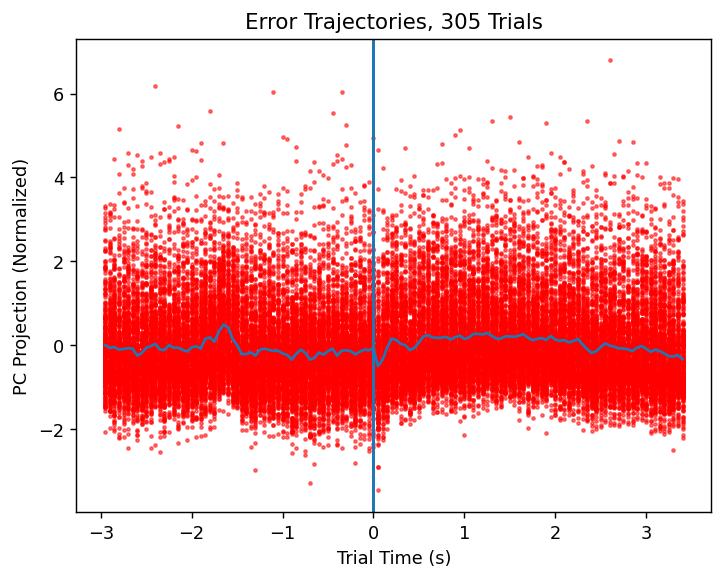
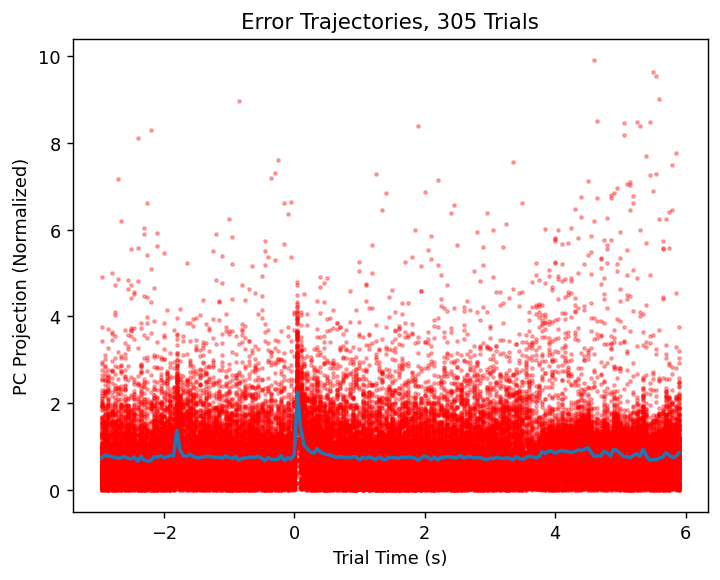
update 11/19/21, wtf?

diff --git a/spike_analysis/main.py b/spike_analysis/main.py
@@ -7,8 +7,139 @@ import numpy as np
 import scripts
 import utils
 from sklearn.decomposition import PCA
+import tqdm
 
 from scripts import avg_pert
+
+
+def plot_pc_projection(ts, projs, idx_pc, trials=True, mean=True, std_err=True, remove_outliers=True, append_title=''):
+    """
+    Plot Principal Component Projections.
+    :param ts:
+    :param projs:
+    :param idx_pc:
+    :param trials:
+    :param mean:
+    :param std_err:
+    :param remove_outliers:
+    :return:
+    """
+    num_bins, num_trials, num_pcs = projs.shape
+    print(num_bins, num_trials, num_pcs)
+    mu = projs.mean(axis=1)[:, idx_pc]
+    sigma = projs.std(axis=1)[:, idx_pc] / np.sqrt(num_trials)
+
+    plt.figure('pc ' + str(idx_pc) + append_title)
+    plt.clf()
+    if trials:
+        for j in range(num_trials):
+            plt.scatter(ts, projs[:, j, idx_pc], c='r', marker='.', alpha=.25, s=10)
+    if mean:
+        plt.plot(ts, projs.mean(axis=1)[:, idx_pc], c='b', linewidth=2)
+
+    if std_err:
+        plt.fill_between(ts, mu - sigma, mu + sigma, color='b', alpha=.3)
+
+    plt.xlabel('Time (s)')
+    plt.ylabel("PC Projection (Hz)")
+    plt.show()
+
+def plot_pc_weights(components, idx_pc, left_right_split=None):
+    try:
+        num_neurons, num_pcs = components.shape
+    except ValueError:
+        num_neurons = len(components)
+        num_pcs = 1
+        idx_pc = 0
+        components = np.expand_dims(components, axis=1)
+
+    plt.figure("pc weights {0}".format(idx_pc))
+    plt.clf()
+
+    plt.plot(np.arange(num_neurons), components[:,idx_pc], c='k')
+    plt.scatter(np.arange(num_neurons), components[:, idx_pc], c='r',marker='.')
+    plt.xlabel("Neuron Number")
+    plt.ylabel("Projection Weight (Unitless)")
+    plt.title("PC {0} Projection Weights".format(idx_pc))
+
+    if left_right_split:
+        plt.axvline(left_right_split, c='b')
+
+    plt.show()
+
+def filter_nan(x, fill=0):
+    """
+    Filter nan values to have fill instead
+    :param x:
+    :param fill:
+    :return:
+    """
+    y = x.copy()
+    y[np.isnan(y)] = fill
+    return y
+
+def nonnegative_pca(X, num_steps=1000):
+    """
+    Nonnegative PCA via http://web.stanford.edu/~montanar/RESEARCH/FILEPAP/nmf.pdf
+
+    :param X: data matrix shape n x p
+    :param num_steps: number of algorithm iterations
+    :return: right,left pc vectors v, u respectively such that all are nonnegative
+    """
+    def l0_norm(x):
+        return np.count_nonzero(x)
+
+    def l2_norm(x):
+        return np.sqrt(x.T @ x)
+
+    def f(x):
+        xp = pos(x)
+        return filter_nan(np.sqrt(n) * xp / l2_norm(xp))
+
+
+    def g(x):
+        if np.isclose(l2_norm(x), 0):
+            return 0 * x
+        else:
+            return filter_nan(np.sqrt(n) * x / l2_norm(x))
+
+    def pos(x):
+        y = x.copy()
+        y[y < 0] = 0
+        return y
+
+    n,p = X.shape
+    t = 0 # step
+
+    u_tm1 = np.zeros((n,))
+    u_t = np.zeros((n,))
+    v_t = np.random.normal(size=(p,))
+    v_t /= np.linalg.norm(v_t)
+    v_tp1 = np.zeros((p,))
+
+    us = [u_t]
+    vs = [v_t]
+
+    uhats = []
+    vhats = [pos(v_t) / l2_norm(pos(v_t))]
+
+    for t in tqdm.tqdm(range(num_steps)):
+        b_t = l0_norm(pos(v_t)) / (np.sqrt(n) * l2_norm(pos(v_t)))
+        u_t = X @ f(v_t) - b_t * g(u_tm1)
+        d_t = np.sqrt(n) / l2_norm(u_t)
+
+        v_tp1 = X.T @ g(u_t) - d_t * f(v_t)
+
+        us.append(u_t)
+        vs.append(v_t)
+        uhats.append(u_t / l2_norm(u_t))
+        vhats.append(pos(v_t) / l2_norm(pos(v_t)))
+
+        u_tm1 = u_t.copy()
+        v_t = v_tp1
+
+    return uhats, vhats
+
 
 if __name__ == '__main__':
     # region load data and session select
@@ -26,6 +157,7 @@ if __name__ == '__main__':
     stims = session.get_task_stimulation()
     dirs = session.get_task_lick_directions()
     cue_times = session.get_task_cue_times()
+    sample_times = session.get_task_sample_times()
     ts = session.get_ts()
     if stationary:
         ts = ts[1:]
@@ -35,6 +167,7 @@ if __name__ == '__main__':
     # region non-perturbation trials, error estimation
     trial_mask_left_lick_no_stim = [idx for idx in range(session.get_num_trials())
                                     if (stims[idx, 0] == 0) and (dirs[idx] == 'l')]
+
 
     frs_left = session.get_firing_rates(region='left ALM')[:, trial_mask_left_lick_no_stim, :]
     frs_right = session.get_firing_rates(region='right ALM')[:, trial_mask_left_lick_no_stim, :]
@@ -51,7 +184,12 @@ if __name__ == '__main__':
     frs_right_flat -= np.expand_dims(frs_right_flat.mean(axis=1),axis=1)
 
     A = np.hstack((frs_left_flat, -frs_right_flat))
-    pca = PCA(n_components=num_pcs, svd_solver="full")
+
+    if normalize:
+        A = utils.z_score(A, axis=0)
+
+
+    pca = PCA(svd_solver="full")
     pca.fit(A)
     err_pc = np.zeros((num_bins * num_trials, num_pcs))
     components = np.zeros((A.shape[1], num_pcs))
@@ -67,17 +205,21 @@ if __name__ == '__main__':
         err_pc_r = np.cumsum(err_pc_r, axis=0)
 
     err_pc_r -= err_pc_r.mean(axis=0)
+
+
+    idx_pc = 0
+
     std = err_pc_r.std(axis=1)
-    for i in range(num_pcs):
-        plt.figure('pc {0}'.format(i))
-        plt.plot(ts, err_pc_r.mean(axis=1)[:,i]/std[:,i])
-        for j in range(num_trials):
-            plt.scatter(ts, err_pc_r[:, j, i]/std[:,i], c='r', alpha=.5, s=3)
-            plt.axvline()
-        plt.xlabel("Trial Time (s)")
-        plt.ylabel("PC Projection (Normalized)")
-        plt.title('Error Trajectories, {0} Trials'.format(num_trials))
-        plt.savefig('pc {0}'.format(i), bbox_inches='tight', dpi=128)
+    # for i in range(num_pcs):
+    #     plt.figure('pc {0}'.format(i))
+    #     plt.clf()
+    #     plt.plot(ts, np.abs(err_pc_r).mean(axis=1)[:,i]/std[:,i], linewidth=2)
+    #     for j in range(num_trials):
+    #         plt.scatter(ts, np.abs(err_pc_r)[:, j, i]/std[:,i], c='r', alpha=.3, s=3)
+    #     plt.xlabel("Trial Time (s)")
+    #     plt.ylabel("PC Projection (Normalized)")
+    #     plt.title('Error Trajectories, {0} Trials'.format(num_trials))
+    #     plt.savefig('pc {0}'.format(i), bbox_inches='tight', dpi=128)
     # endregion
 
     # region perturbation trials, error estimation
@@ -104,6 +246,8 @@ if __name__ == '__main__':
 
     A_p = np.hstack((frs_left_flat_p, -frs_right_flat_p))
 
+    if normalize:
+        A_p = utils.z_score(A_p, axis=0)
     err_pc_p = np.zeros((num_bins * num_trials_pert, num_pcs))
     for j in range(num_pcs):
         err_pc_p[:, j] = np.tensordot(A_p, components[:,j], axes=1)
@@ -113,22 +257,108 @@ if __name__ == '__main__':
 
     err_pc_r_p -= np.expand_dims(err_pc_r.mean(axis=1),axis=1)
     err_pc_r_p -= err_pc_r_p.mean(axis=0)
-    std_p = err_pc_r_p.std(axis=1)
-    for i in range(num_pcs):
-        plt.figure('pcp {0}'.format(i))
-        plt.plot(ts, err_pc_r_p.mean(axis=1)[:,i]/std_p[:,i])
-        for j in range(num_trials_pert):
-            plt.scatter(ts, err_pc_r_p[:, j, i]/std_p[:,i], c='r', alpha=.5, s=3)
-            plt.axvline(t_perts[j],c='k')
-        plt.xlabel("Trial Time (s)")
-        plt.ylabel("PC Projection (Normalized)")
-        plt.title('Perturbed Error Trajectories, {0} Trials'.format(num_trials_pert))
 
-        plt.savefig('pcp {0}'.format(i), bbox_inches='tight', dpi=128)
+    std_p = err_pc_r_p.std(axis=1)
+
+    err_pruned = err_pc_r_p.copy()
+    ep_mean = err_pruned.mean(axis=1)
+    ep_std = err_pruned.std(axis=1)
+    for i in range(num_pcs):
+        for j in range(num_trials_pert):
+            corr_mask = err_pruned[:, j, i] > 3 * ep_std[:,i]
+            err_pruned[:, j, i][corr_mask] = ep_mean[:,i][corr_mask]
+
+
+    # for i in range(num_pcs):
+    #     plt.figure('pcp {0}'.format(i))
+    #     plt.clf()
+    #     plt.plot(ts, (err_pc_r_p).mean(axis=1)[:,i]/std_p[:,i], linewidth=2)
+    #     for j in range(num_trials_pert):
+    #         plt.scatter(ts, (err_pc_r_p[:, j, i])/std_p[:,i], c='r', alpha=.3, s=3)
+    #         plt.axvline(t_perts[j],c='k')
+    #         plt.axvline(t_perts[j]+.5, c='k')
+    #     plt.xlabel("Trial Time (s)")
+    #     plt.ylabel("PC {0} Error Projection (Normalized)".format(i))
+    #     plt.title('PC {1} Perturbed Error Trajectories, {0} Trials'.format(num_trials_pert, i))
+    #     plt.savefig('pcp {0}'.format(i), bbox_inches='tight', dpi=128)
+    #
+    #     plt.figure('pcp_abs {0}'.format(i))
+    #     plt.clf()
+    #     plt.plot(ts, np.abs(err_pc_r_p).mean(axis=1)[:,i]/std_p[:,i], linewidth=2)
+    #     for j in range(num_trials_pert):
+    #         plt.scatter(ts, np.abs(err_pc_r_p[:, j, i])/std_p[:,i], c='r', alpha=.3, s=3)
+    #         plt.axvline(t_perts[j],c='k')
+    #         plt.axvline(t_perts[j]+.5, c='k')
+    #     plt.xlabel("Trial Time (s)")
+    #     plt.ylabel("|PC {0} Error Projection| (Normalized)".format(i))
+    #     plt.title('PC {1} |Perturbed Error| Trajectories, {0} Trials'.format(num_trials_pert, i))
+    #     plt.savefig('pcp_abs {0}'.format(i), bbox_inches='tight', dpi=128)
     # endregion
 
+    # region behavioral relevance
+    trials_mask_all_left = trial_mask_left_lick_no_stim + trial_mask_left_lick_left_stim
+    num_trials_left = len(trial_mask_left_lick_no_stim) + len(trial_mask_left_lick_left_stim)
+    A_all = np.vstack((A, A_p))
+    projs_all = A_all @ components
+    projs_all = projs_all.reshape((num_bins, num_trials_left, num_pcs))
+
+    if stationary and stationary_invert:
+        projs_all = np.cumsum(projs_all, axis=0)
+
+    # get integrals for times after
+    outcomes = session.get_behavior_report()[trial_mask_left_lick_no_stim]
+    # outcomes[outcomes < 0] = 0
+    t_samps = session.get_task_sample_times()[0,trials_mask_all_left]
+    t_cues = session.get_task_cue_times()[0,trials_mask_all_left]
+    t_mask = (ts >= t_samps.mean()) & (ts < t_cues.mean())
+    t_mask = np.argwhere(ts >= 0 and )[0][0]
+    proj_cues = np.squeeze(projs_all[t_mask, :, :])
+    proj_cues = projs_all.mean(axis=0)
+    proj_cues /= np.max(proj_cues,axis=0)
     print('done')
 
+    right_mask = outcomes == 1
+    wrong_mask = outcomes == 0
+    no_mask = outcomes == -1
+    for i in range(num_pcs):
+        if i >= 3:
+            break
+        plt.figure('pc '+ str(i) + ' error')
+        plt.clf()
+        plt.boxplot([proj_cues[right_mask, i], proj_cues[wrong_mask, i], proj_cues[no_mask, i]], sym='',meanline = True, showmeans = True)
+        plt.scatter([1] * sum(right_mask), proj_cues[right_mask, i], c='k', marker='.', s=10)
+        plt.scatter([2] * sum(wrong_mask), proj_cues[wrong_mask, i], c='k', marker='.', s=10)
+        plt.scatter([3] * sum(no_mask), proj_cues[no_mask, i], c='k', marker='.', s=10)
+        plt.axhline(0)
+        plt.title("Norm of PC Trajectory After Cue Time, PC " + str(i))
+        plt.ylabel("Projection Strength (Normalized)")
+        plt.xticks([1, 2, 3], labels=['Correct Lick', 'Incorrect Lick', 'No Response'])
+        plt.savefig('correctness_pc_{0}.png'.format(i), bbox_inches='tight', dpi=128)
+
+    plt.figure('pc sum')
+    plt.clf()
+    data = np.mean(proj_cues,axis=1)
+    plt.boxplot([data[right_mask], data[wrong_mask], data[no_mask]], sym='',meanline = True, showmeans = True)
+    plt.scatter([1] * sum(right_mask), (proj_cues).mean(axis=1)[right_mask], c='k', marker='.', s=10)
+    plt.scatter([2] * sum(wrong_mask), (proj_cues).mean(axis=1)[wrong_mask], c='k', marker='.', s=10)
+    plt.scatter([3] * sum(no_mask), (proj_cues).mean(axis=1)[no_mask], c='k', marker='.', s=10)
+    plt.axhline(0)
+    plt.title("Projection Strength at Cue Time, Mean of PC Projections")
+    plt.ylabel("Projection Strength (Normalized)")
+    plt.xticks([1, 2, 3], labels=['Correct Lick', 'Incorrect Lick', 'No Response'])
+    plt.savefig('correctness_all_pcs.png',bbox_inches='tight', dpi=128)
+    plt.show()
+
+    # endregion
+
+    # region scratch
+    idx_start = np.argwhere(ts>=(t_samps.mean()-cue_times[0,:].mean()))[0][0]
+    idx_end = np.argwhere(ts >= 0)[0][0]
+    proj_cues = np.linalg.norm(projs_r2[idx_end:,:], axis=0)
+
+    projs_r2 = A @ components[:, 0]
+    projs_r2 = np.reshape(projs_r2, (num_bins, num_trials))
+    # endregion
 
 # region old code
 

diff --git a/spike_analysis/containers.py b/spike_analysis/containers.py
@@ -281,7 +281,9 @@ class Session(PersistentObject):
             if "task_sample_time" not in data_handle.keys():
                 data_handle.create_dataset(name="task_sample_time", data=data['task_sample_time'])
 
-            # TODO: add task stimulation, task cue time, task delay time, filter by epoch
+            if "behavior_report" not in data_handle.keys():
+                data_handle.create_dataset(name='behavior_report', data=data['behavior_report'])
+
         self._add_to_file_record(file_name)
 
     # Accessor methods (necessary to use wrapper?)
@@ -424,6 +426,18 @@ class Session(PersistentObject):
             else:
                 raise KeyError("Region {0} not contained"
                                " within this session: {1}".format(region, self.get_session_brain_regions()))
+
+
+    @access_hd5
+    def get_behavior_report(self):
+        """
+        1: correct or free water, 0: error, -1: no response
+        :return:
+        """
+        with h5py.File(self._data_path, "r") as data_handle:
+            data = np.array(data_handle["behavior_report"]).copy().astype(object)
+        return data
+
 
     def compute_pca_by_brain_region(self, num_pcs=2, overwrite=False, mode='fr', dt=constants.BIN_WIDTH_DEFAULT,
                                     t_start=constants.TIME_BEGIN_DEFAULT, t_stop=constants.TIME_END_DEFAULT):

diff --git a/spike_analysis/constants.py b/spike_analysis/constants.py
@@ -8,7 +8,7 @@ DIR_SAVE = r"C:\Users\fritz\Desktop\session_data"     # directory to store persi
 
 # Spike Rate Estimation
 TIME_BEGIN_DEFAULT = -3.0  # trial start time
-TIME_END_DEFAULT = 6  # trial end time
+TIME_END_DEFAULT = 3  # trial end time
 BIN_WIDTH_DEFAULT = .05 # trial time is split into non-overlapping bins with this width
 THRESHOLD_FIRING_RATE_MIN = 1  # Lowest firing rate in Hz when filtering by firing rate
 SPIKE_TRAIN_DILUTION_BOUND = .006 # spike train dilution lower bound
